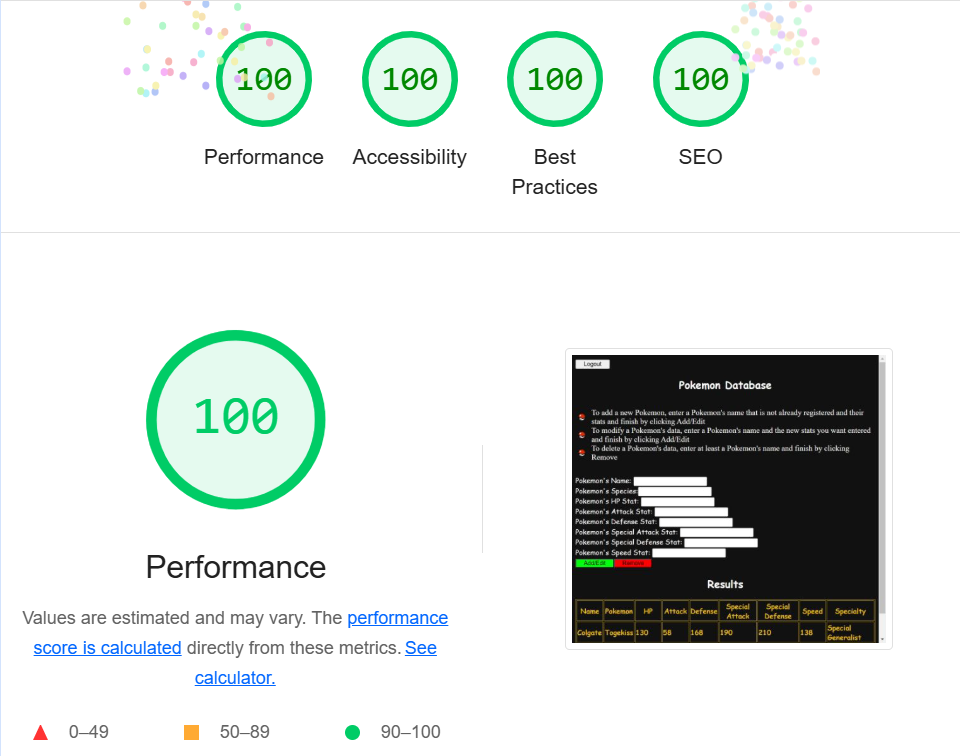
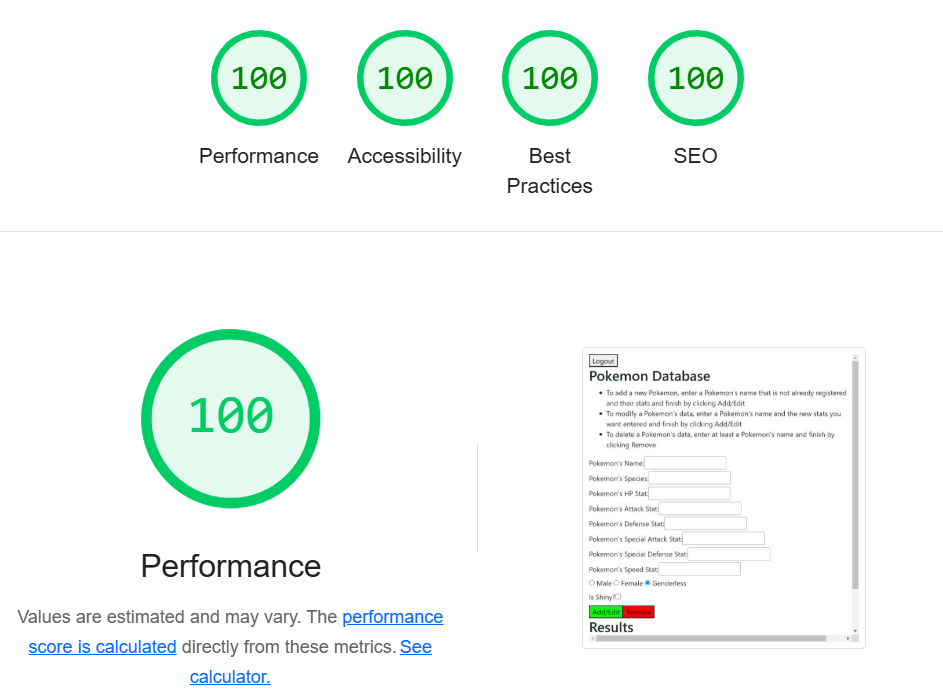
Finished small bits

diff --git a/README.md b/README.md
@@ -5,7 +5,7 @@
 This application is for Pokemon Trainers to log their Pokemon into a database where they can keep track of them.
 There were quite a few challenges regarding my laptop or lack of access to a laptop and the css frameworks.
 I went with the localStorage as it was the easiest and simplest to implement.
-I was unable to get any of the CSS frameworks to work despite trying many including NES.css, Tailwind CSS, Bootstrap, and ShadCN.
+I was able to implement the Bootstrap css framework into my design with me only changing how their tables were presented to make it cleaner.
 
 ## Technical Achievements
 - **Tech Achievement 1**: Got a 100% in all four lighthouse fields on my [login](./public/assets/login_perfection.png) and [index](./public/assets/index_perfection.png) pages
@@ -13,4 +13,4 @@ I was unable to get any of the CSS frameworks to work despite trying many includ
 - **Tech Achievement 3**: Created a custom 404 page that will route to login if they have not logged in yet and index if they have. (Aiming for it to be worth 10 points)
 
 ## Design/Evaluation Achievements
-- **Design Achievement 1**: Implemented the Bootstrap css framework for a simplistic website housing Pokemon
+- **Design Achievement 1**: None really...
